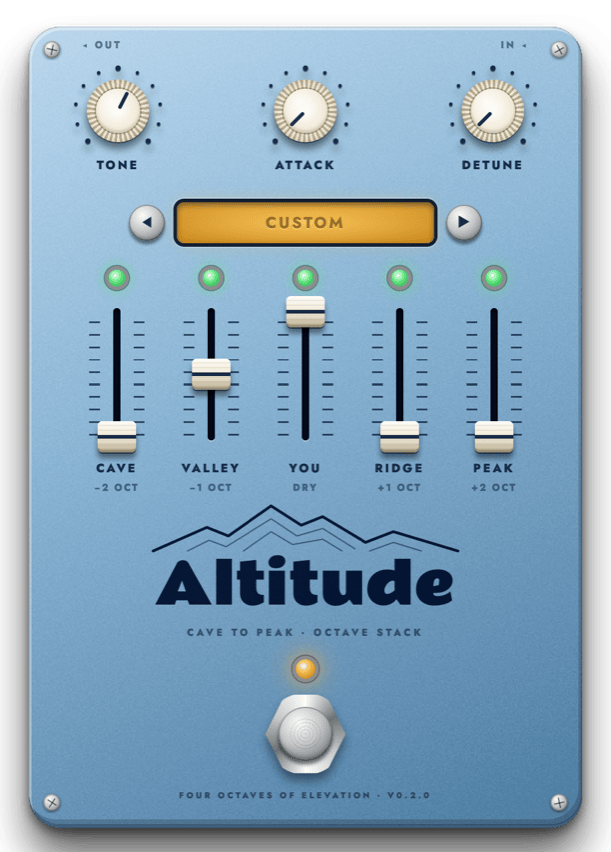
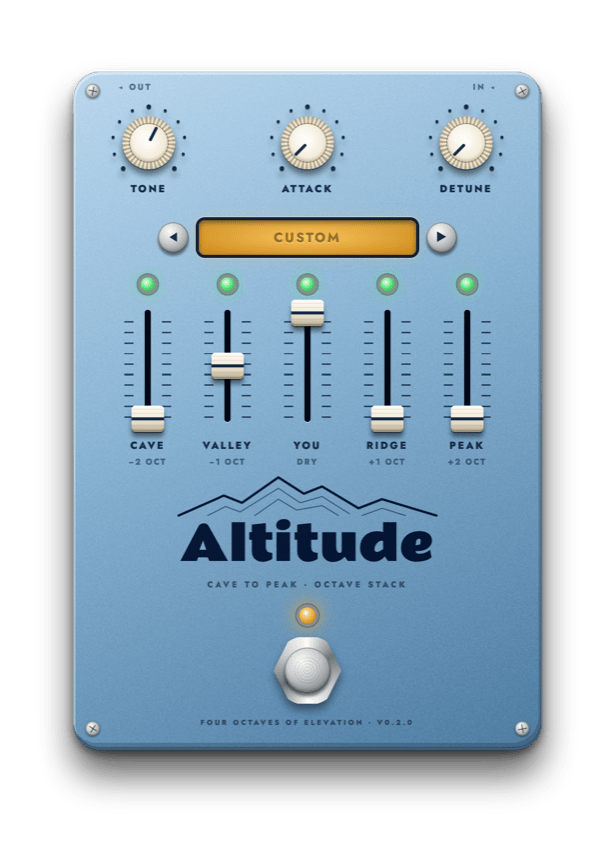
Leave room in screenshots for the drop shadow
On a transparent background the object's drop shadow was cut off at
the window's edge. The capture now pads the window by 48 px on the top
and sides and 80 px below, and lets html and body overflow so the
shadow isn't clipped.

Claude-Session: https://claude.ai/code/session_01M6vpxR81VaPY9T4oUmhAa4

diff --git a/README.md b/README.md
@@ -1,6 +1,6 @@
 # Altitude
 
-<img src="docs/altitude.png" width="305" alt="Altitude, a powder-blue stompbox printed in navy, with ivory Tone, Attack and Detune knobs, an amber preset window between chrome arrow buttons, five slide faders with ivory caps (Cave, Valley, You, Ridge, Peak) under green switch lights, a printed mountain range over the Altitude wordmark, and a chrome footswitch under an amber LED">
+<img src="docs/altitude.png" width="307" alt="Altitude, a powder-blue stompbox printed in navy, with ivory Tone, Attack and Detune knobs, an amber preset window between chrome arrow buttons, five slide faders with ivory caps (Cave, Valley, You, Ridge, Peak) under green switch lights, a printed mountain range over the Altitude wordmark, and a chrome footswitch under an amber LED">
 
 Stacked octaves for guitar, bass, synths or anything else, as a VST3 and
 CLAP plugin for macOS and Windows. Five floors mix two octaves down, one
